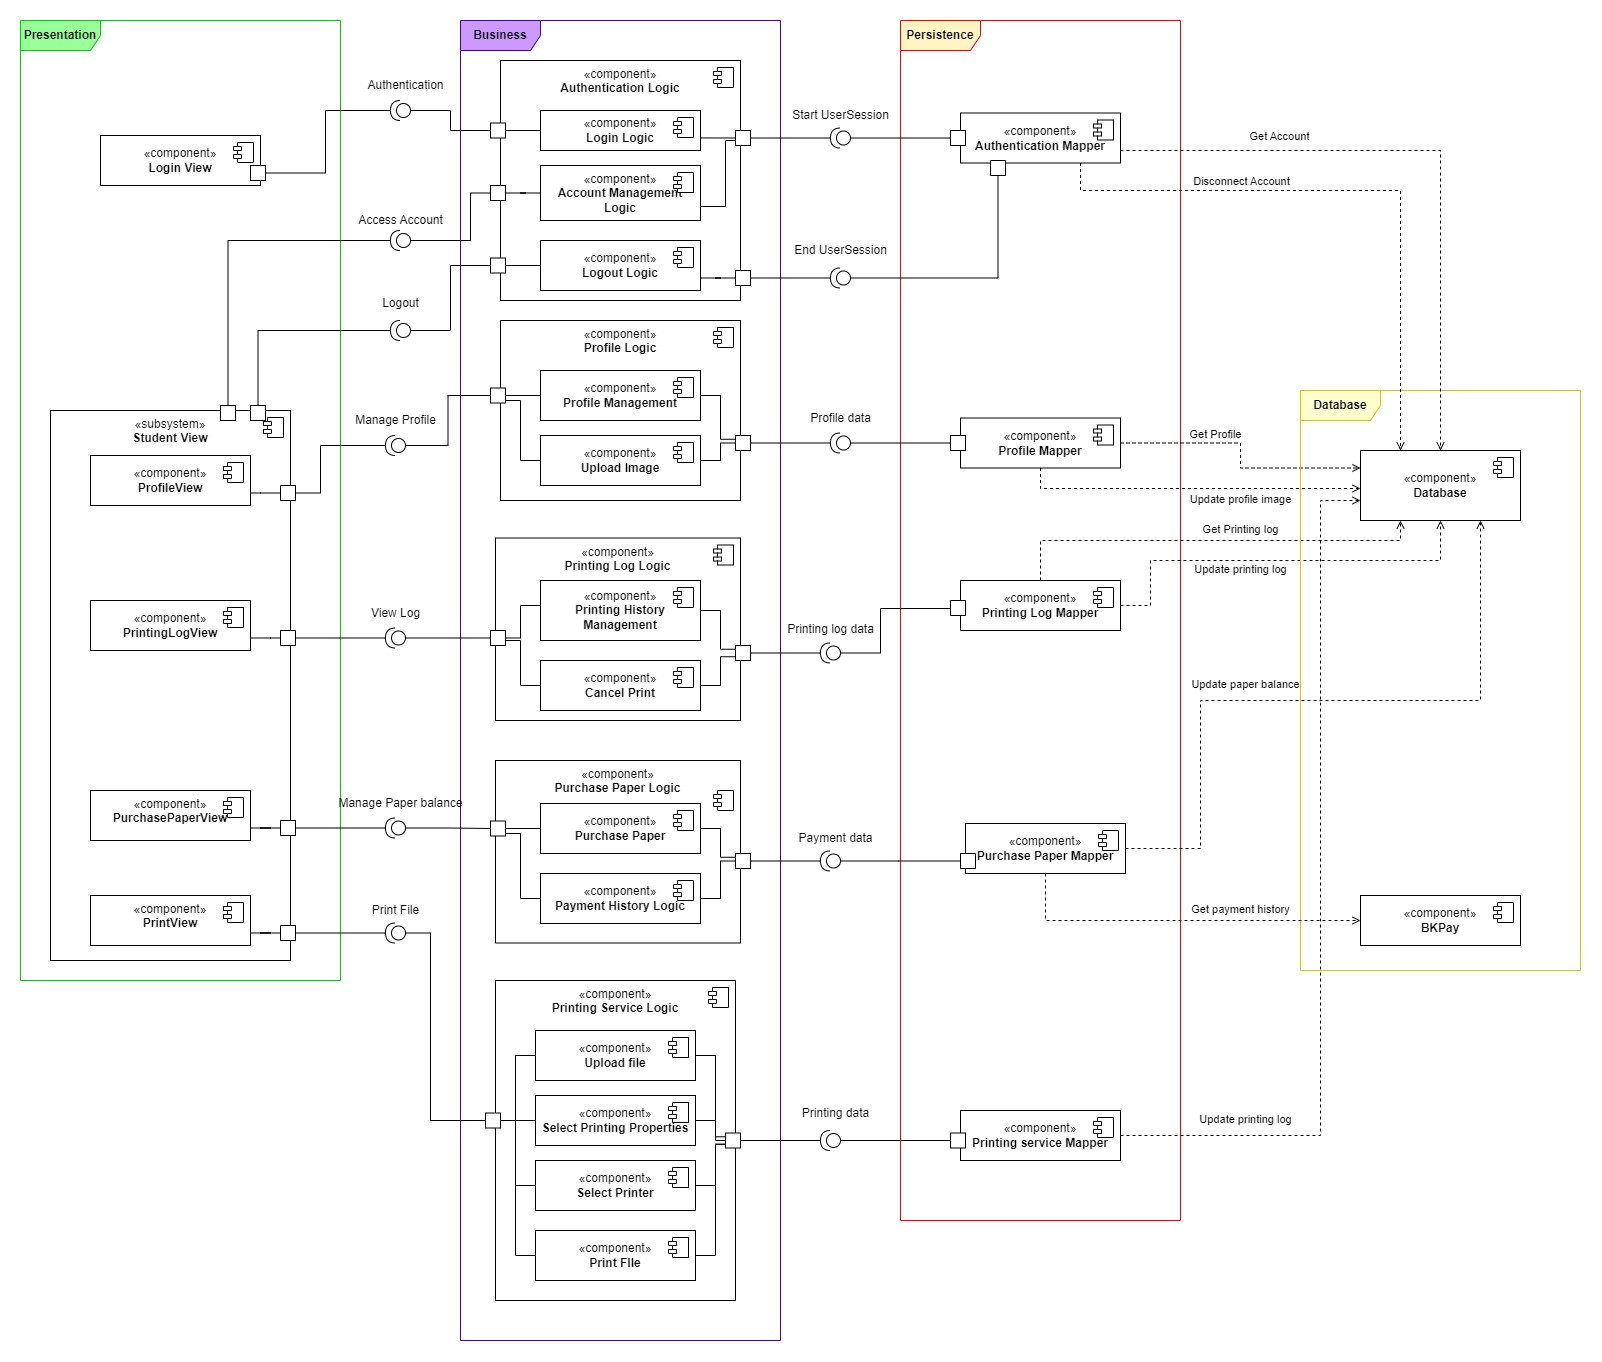
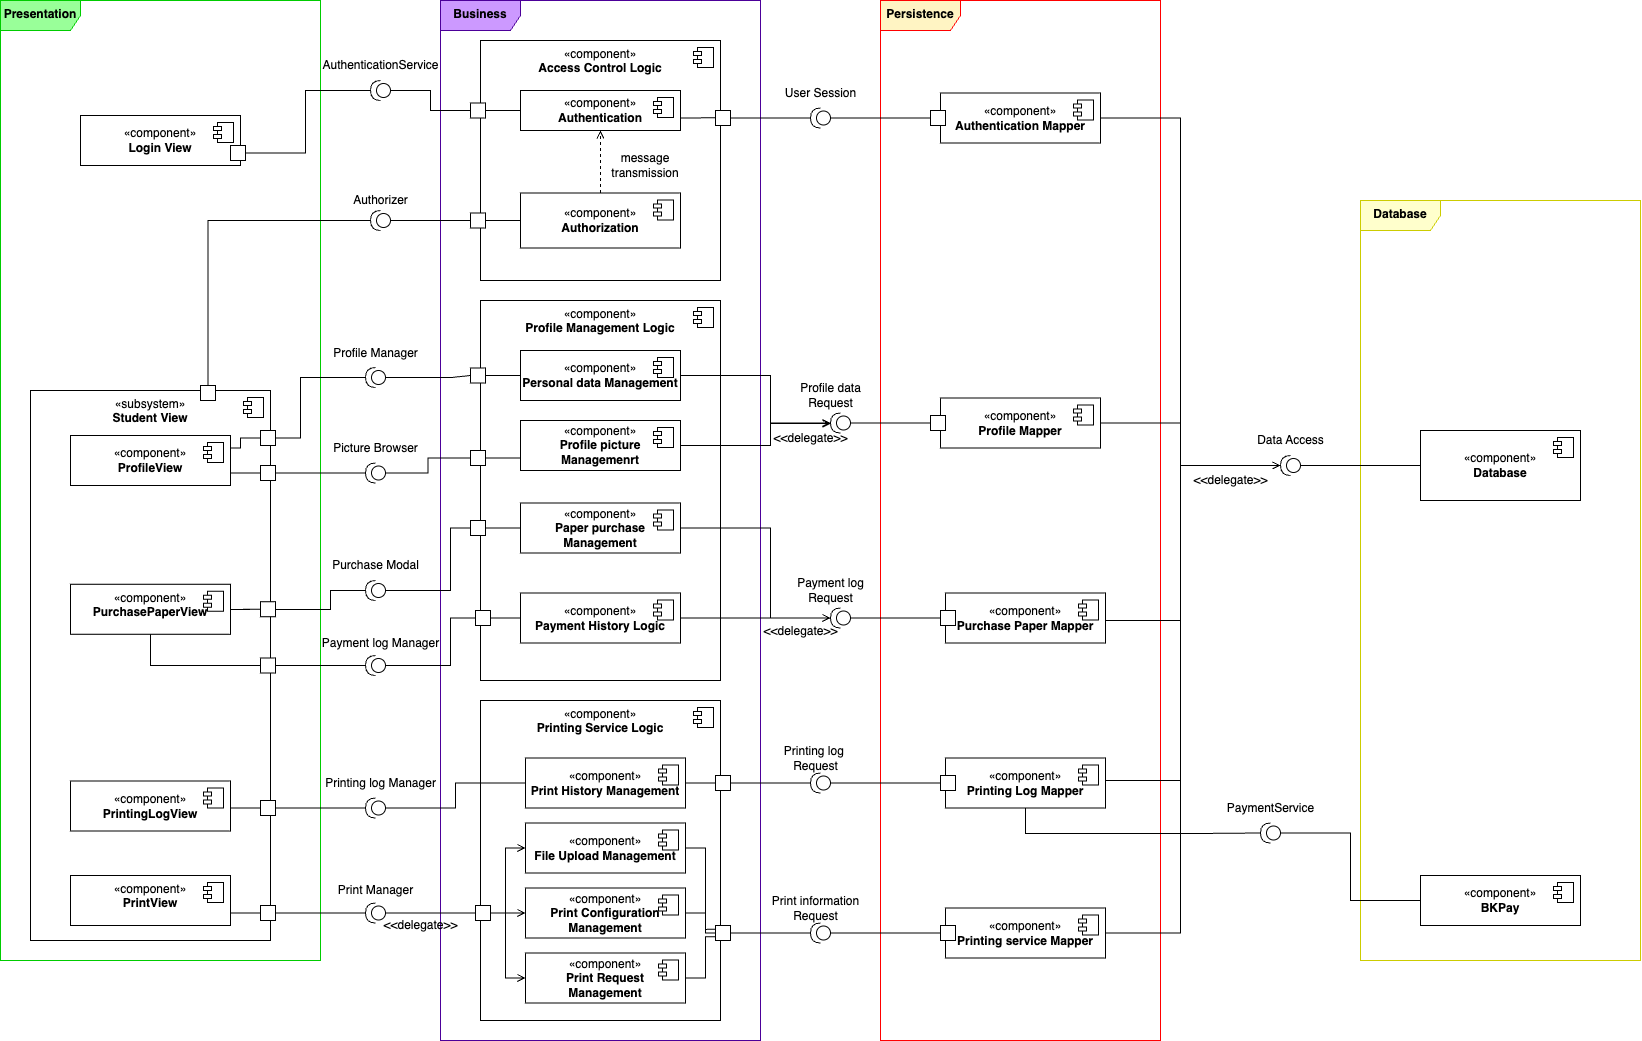
chore: update docs

diff --git a/code/README.md b/code/README.md
@@ -1,70 +1,23 @@
-# Getting Started with Create React App
+# HCMUT SPSS
 
-This project was bootstrapped with [Create React App](https://github.com/facebook/create-react-app).
+## How to run
 
-## Available Scripts
+Make sure to have Node.js and Node package manager installed.
 
-In the project directory, you can run:
+To run:
 
-### `npm start`
+```
+$ npm start
 
-Runs the app in the development mode.\
-Open [http://localhost:3000](http://localhost:3000) to view it in your browser.
+or 
 
-The page will reload when you make changes.\
-You may also see any lint errors in the console.
+$ npm run start
+```
 
-### `npm test`
+To build
 
-Launches the test runner in the interactive watch mode.\
-See the section about [running tests](https://facebook.github.io/create-react-app/docs/running-tests) for more information.
+```
+$ npm run build
 
-### `npm run build`
-
-Builds the app for production to the `build` folder.\
-It correctly bundles React in production mode and optimizes the build for the best performance.
-
-The build is minified and the filenames include the hashes.\
-Your app is ready to be deployed!
-
-See the section about [deployment](https://facebook.github.io/create-react-app/docs/deployment) for more information.
-
-### `npm run eject`
-
-**Note: this is a one-way operation. Once you `eject`, you can't go back!**
-
-If you aren't satisfied with the build tool and configuration choices, you can `eject` at any time. This command will remove the single build dependency from your project.
-
-Instead, it will copy all the configuration files and the transitive dependencies (webpack, Babel, ESLint, etc) right into your project so you have full control over them. All of the commands except `eject` will still work, but they will point to the copied scripts so you can tweak them. At this point you're on your own.
-
-You don't have to ever use `eject`. The curated feature set is suitable for small and middle deployments, and you shouldn't feel obligated to use this feature. However we understand that this tool wouldn't be useful if you couldn't customize it when you are ready for it.
-
-## Learn More
-
-You can learn more in the [Create React App documentation](https://facebook.github.io/create-react-app/docs/getting-started).
-
-To learn React, check out the [React documentation](https://reactjs.org/).
-
-### Code Splitting
-
-This section has moved here: [https://facebook.github.io/create-react-app/docs/code-splitting](https://facebook.github.io/create-react-app/docs/code-splitting)
-
-### Analyzing the Bundle Size
-
-This section has moved here: [https://facebook.github.io/create-react-app/docs/analyzing-the-bundle-size](https://facebook.github.io/create-react-app/docs/analyzing-the-bundle-size)
-
-### Making a Progressive Web App
-
-This section has moved here: [https://facebook.github.io/create-react-app/docs/making-a-progressive-web-app](https://facebook.github.io/create-react-app/docs/making-a-progressive-web-app)
-
-### Advanced Configuration
-
-This section has moved here: [https://facebook.github.io/create-react-app/docs/advanced-configuration](https://facebook.github.io/create-react-app/docs/advanced-configuration)
-
-### Deployment
-
-This section has moved here: [https://facebook.github.io/create-react-app/docs/deployment](https://facebook.github.io/create-react-app/docs/deployment)
-
-### `npm run build` fails to minify
-
-This section has moved here: [https://facebook.github.io/create-react-app/docs/troubleshooting#npm-run-build-fails-to-minify](https://facebook.github.io/create-react-app/docs/troubleshooting#npm-run-build-fails-to-minify)
+# npx serve -s build
+```

diff --git a/docs/ARCHITECTURE.md b/docs/ARCHITECTURE.md
@@ -67,7 +67,7 @@ Below is the link to access our component diagram for a better view: [https://dr
   <img src="images/Component.png" alt="Component" width="600" />
 </picture>
 
-The diagram depicts the interactions between different components in the Printing service module (Students’ side). The system revolves around 4 layers that are described in layered architecture part.
+The diagram depicts the interactions between different components in the Printing service module (Students’ side). The system revolves around 4 layers that are described in layered architecture, communicating with each other via interfaces to hide the code from other layers, leading to more modular and maintainable code and less security risks. 
 
 ## Presentation Layer
 - **Login View**: Render the Account authentication interface from component Account Logic (internal component Authentication)
